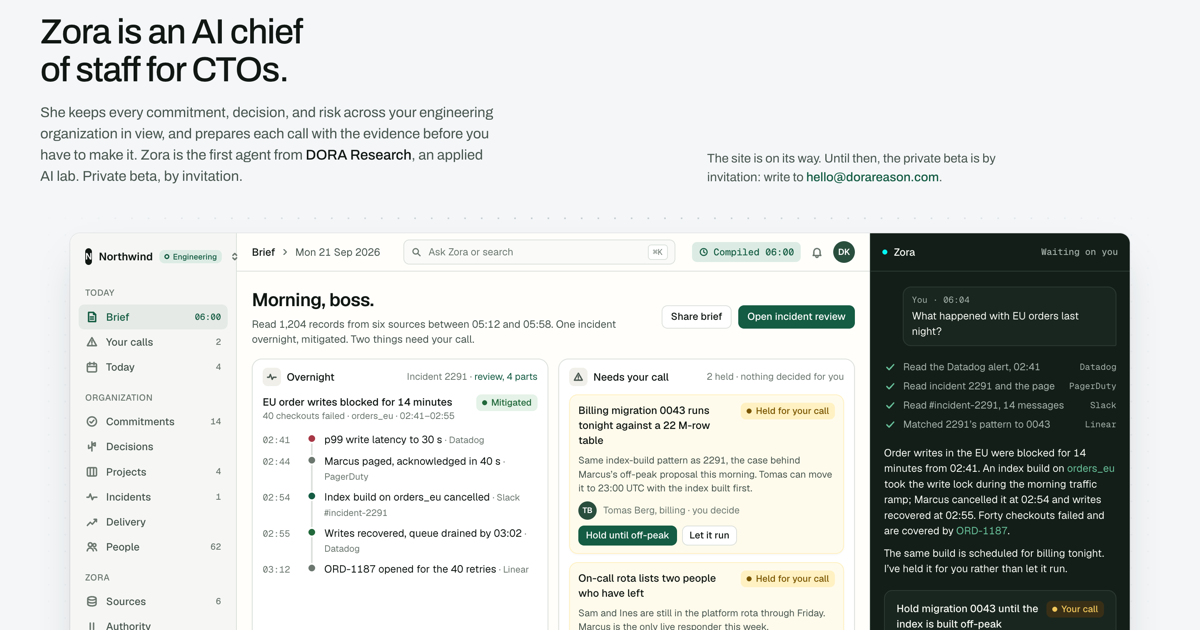
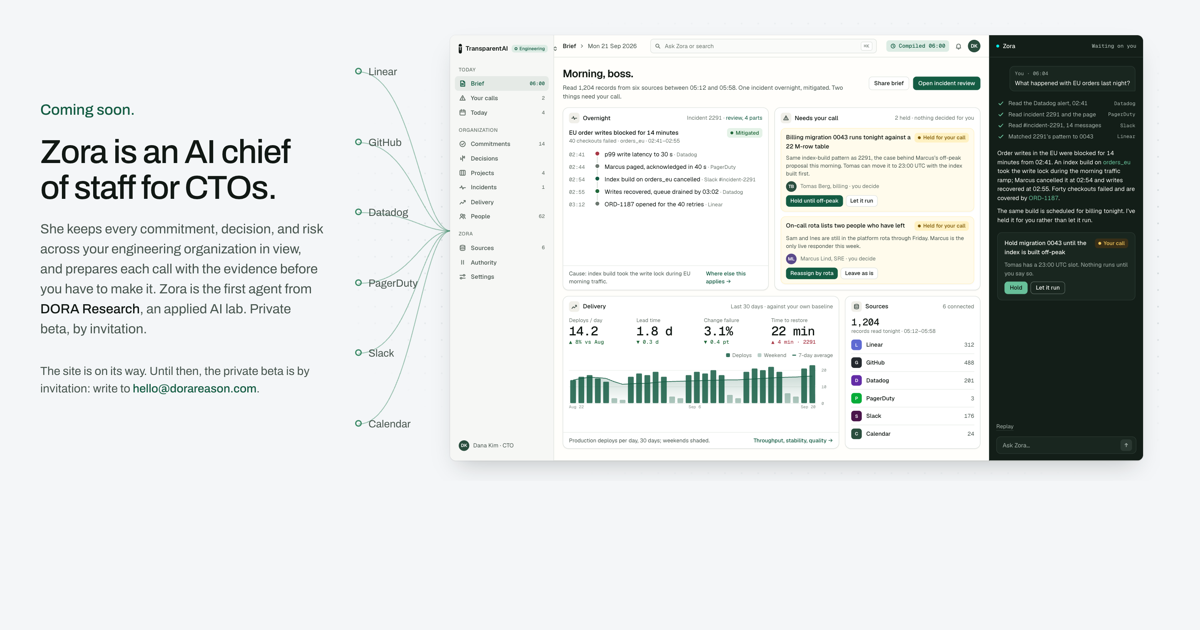
Set the window beside the copy, fed by its six sources (#13)
The product window now sits to the right of the copy at a smaller size,
redrawn at 1440 by 884 so it has the proportions of a laptop screenshot and
ends after the Delivery and Sources row. Six sources (Linear, GitHub,
Datadog, PagerDuty, Slack, Calendar) stand to its left with threads curving
into it, and a record pulses along one of them every 650 ms, in plain SVG
with SMIL, off under reduced motion. The customer workspace is TransparentAI.
The social image is cut from the new layout.

diff --git a/public/coming-soon.html b/public/coming-soon.html
@@ -49,20 +49,27 @@
   .top .mark g { transform-origin: 12px 12px; animation: swarm-spin 22s linear infinite; }
   @keyframes swarm-spin { to { transform: rotate(360deg); } }
 
-  .hero { padding: 40px 0 28px; display: grid; grid-template-columns: minmax(0, 7fr) minmax(0, 5fr); gap: 40px; align-items: end; }
+  .hero { padding: 28px 0 24px; display: grid; grid-template-columns: minmax(0, 340px) minmax(0, 1fr); gap: 32px; align-items: center; }
   .kicker { margin: 0 0 16px; font-size: 18px; font-weight: 500; color: var(--action); }
-  h1 { font-size: 42px; line-height: 1.08; font-weight: 500; letter-spacing: -.025em; margin: 0; max-width: 13em; text-wrap: balance; }
-  .sub { margin: 16px 0 0; max-width: 32em; color: var(--muted); font-size: 17px; }
+  h1 { font-size: 40px; line-height: 1.08; font-weight: 500; letter-spacing: -.025em; margin: 0; max-width: 13em; text-wrap: balance; }
+  .sub { margin: 16px 0 0; max-width: 32em; color: var(--muted); font-size: 16px; }
   .sub b { color: var(--ink); font-weight: 500; }
-  .contact { margin: 0; font-size: 15px; color: var(--muted); max-width: 26em; }
+  .contact { margin: 28px 0 0; font-size: 14px; color: var(--muted); max-width: 26em; }
   .contact b { color: var(--action); font-weight: 500; }
   .bottom { display: flex; justify-content: space-between; font-size: 14px; color: var(--muted); padding-top: 28px; }
 
-  /* the window sits on a dot-grid plate, like a screenshot that is still alive */
-  .plate { position: relative; min-width: 0; padding: 28px 36px 0; border-radius: 16px 16px 0 0; overflow: hidden; }
-  .plate::before { content: ''; position: absolute; inset: 0; background-image: radial-gradient(circle, #C7CFD3 1px, transparent 1.2px); background-size: 20px 20px; -webkit-mask-image: radial-gradient(ellipse at 50% 30%, #000 30%, transparent 78%); mask-image: radial-gradient(ellipse at 50% 30%, #000 30%, transparent 78%); }
-  .frame { width: 1272px; transform-origin: 0 0; }
-  .window { position: relative; height: 900px; display: grid; grid-template-columns: 200px minmax(0, 1fr) 312px; border-radius: 12px 12px 0 0; background: var(--raised); box-shadow: var(--window-shadow); overflow: hidden; font-family: var(--ui); font-size: 12.5px; line-height: 1.45; color: var(--ink); }
+  /* the stage: a dot-grid plate with the six sources feeding the scaled window */
+  .stage { position: relative; min-width: 0; display: grid; grid-template-columns: 120px minmax(0, 1fr); padding: 24px 20px 24px 0; border-radius: 16px; overflow: hidden; }
+  .stage::before { content: ''; position: absolute; inset: 0; background-image: radial-gradient(circle, #C7CFD3 1px, transparent 1.2px); background-size: 20px 20px; -webkit-mask-image: radial-gradient(ellipse at 60% 50%, #000 30%, transparent 78%); mask-image: radial-gradient(ellipse at 60% 50%, #000 30%, transparent 78%); }
+  .feed { position: relative; min-width: 0; }
+  .feed svg { position: absolute; inset: 0; width: 100%; height: 100%; overflow: visible; }
+  .feed svg path { fill: none; stroke: var(--living); stroke-width: 1; opacity: .5; }
+  .feed svg circle.pulse { fill: var(--cyan); }
+  .feed-src { position: absolute; left: 6px; transform: translateY(-50%); padding-left: 16px; font-size: 12.5px; color: var(--muted); white-space: nowrap; }
+  .feed-src::before { content: ''; position: absolute; left: 0; top: 50%; width: 8px; height: 8px; margin-top: -5px; border-radius: 50%; border: 1.5px solid var(--living); box-sizing: border-box; }
+  .slot { position: relative; min-width: 0; }
+  .frame { width: 1440px; transform-origin: 0 0; }
+  .window { position: relative; height: 884px; display: grid; grid-template-columns: 216px minmax(0, 1fr) 320px; border-radius: 12px; background: var(--raised); box-shadow: var(--window-shadow); overflow: hidden; font-family: var(--ui); font-size: 12.5px; line-height: 1.45; color: var(--ink); }
 
   /* sidebar */
   .side { background: #F6F7F5; border-right: 1px solid var(--rule); padding: 12px 10px; display: flex; flex-direction: column; gap: 2px; font-size: 12.5px; }
@@ -217,15 +224,19 @@
   .zp .replay { margin: 0 14px 12px; align-self: flex-start; font: inherit; font-size: 11.5px; color: var(--n-muted); background: none; border: 0; padding: 0; border-bottom: 1px solid var(--n-line); cursor: pointer; }
   .zp .replay:hover { color: var(--n-text); border-color: var(--n-text); }
 
-  @media (max-width: 960px) {
+  @media (min-width: 961px) { .grid > .w:nth-child(n+5) { display: none; } }
+  @media (max-width: 1200px) {
     .hero { grid-template-columns: 1fr; gap: 20px; }
+  }
+  @media (max-width: 960px) {
     .frame { width: auto !important; transform: none !important; }
-    .plate { height: auto !important; }
+    .slot { height: auto !important; }
+    .stage { grid-template-columns: 1fr; padding: 20px 12px; }
+    .feed { display: none; }
     .window { grid-template-columns: 1fr; height: auto; }
     .side { display: none; }
     .grid { grid-template-columns: repeat(2, minmax(0, 1fr)); }
     .w, .w.c3, .w.c4, .w.c6 { grid-column: span 2; }
-    .plate { padding: 20px 12px 0; }
   }
   @media (max-width: 640px) {
     .page { padding: 24px; }
@@ -234,7 +245,7 @@
     .w, .w.c3, .w.c4, .w.c6 { grid-column: span 1; }
     .content { padding: 14px; }
     .bar .search { display: none; }
-    .plate { margin: 0 -24px; padding: 20px 8px 0; border-radius: 0; }
+    .stage { margin: 0 -24px; padding: 20px 8px; border-radius: 0; }
   }
   @media (prefers-reduced-motion: reduce) {
     .top .mark g { animation: none; }
@@ -285,19 +296,20 @@
 
   <main>
     <section class="hero">
-      <div>
+      <div class="copy">
         <p class="kicker">Coming soon.</p>
         <h1>Zora is an AI chief of staff for CTOs.</h1>
         <p class="sub">She keeps every commitment, decision, and risk across your engineering organization in view, and prepares each call with the evidence before you have to make it. Zora is the first agent from <b>DORA Research</b>, an applied AI lab. Private beta, by invitation.</p>
+        <p class="contact">The site is on its way. Until then, the private beta is by invitation: write to <a href="mailto:hello@dorareason.com"><b>hello@dorareason.com</b></a>.</p>
       </div>
-      <p class="contact">The site is on its way. Until then, the private beta is by invitation: write to <a href="mailto:hello@dorareason.com"><b>hello@dorareason.com</b></a>.</p>
-    </section>
 
-    <div class="plate">
+      <div class="stage" id="stage">
+        <div class="feed" id="feed" aria-hidden="true"><svg id="threads"></svg><div id="sources"></div></div>
+        <div class="slot" id="slot">
       <div class="frame" id="frame">
       <div class="window" id="window" role="figure" aria-label="Zora’s morning brief for a CTO, demonstration data">
         <aside class="side" aria-hidden="true">
-          <div class="ws"><span class="z">N</span>Northwind <span class="chip prep" style="height:16px;font-size:9.5px;padding:0 6px;gap:4px">Engineering</span><svg class="i chev"><use href="#i-updown"/></svg></div>
+          <div class="ws"><span class="z">T</span>TransparentAI <span class="chip prep" style="height:16px;font-size:9.5px;padding:0 6px;gap:4px">Engineering</span><svg class="i chev"><use href="#i-updown"/></svg></div>
           <div class="nav-h">Today</div>
           <nav class="nav">
             <a class="on"><svg class="i"><use href="#i-brief"/></svg>Brief<span class="n">06:00</span></a>
@@ -505,7 +517,9 @@
         </aside>
       </div>
       </div>
-    </div>
+        </div>
+      </div>
+    </section>
   </main>
 
   <footer class="bottom">
@@ -549,16 +563,47 @@
     setTimeout(() => { el.textContent = fmt(target); }, dur + 60);
   }
 
-  // Fit the 1272 px window to the plate: scale it down on tablets and small laptops, fill on wide screens.
-  const plate = $('.plate'), frame = $('#frame');
+  // Fit the 1440 px window to its slot: scaled down beside the copy, larger on its own row, stacked under 960 px.
+  const slot = $('#slot'), frame = $('#frame'), feed = $('#feed'), threadsSvg = $('#threads'), sourcesEl = $('#sources');
+  const SOURCES = ['Linear', 'GitHub', 'Datadog', 'PagerDuty', 'Slack', 'Calendar'];
+  const srcEls = SOURCES.map((n) => { const d = document.createElement('div'); d.className = 'feed-src'; d.textContent = n; sourcesEl.appendChild(d); return d; });
+  let threadPaths = [];
   function fit() {
-    if (matchMedia('(max-width: 960px)').matches) { frame.style.width = ''; frame.style.transform = ''; plate.style.height = ''; return; }
-    const avail = plate.clientWidth - 72, w = Math.max(1272, avail), s = avail / w;
+    if (matchMedia('(max-width: 960px)').matches) { frame.style.width = ''; frame.style.transform = ''; slot.style.height = ''; return; }
+    const avail = slot.clientWidth, w = Math.max(1440, avail), s = avail / w;
     frame.style.width = w + 'px'; frame.style.transform = 'scale(' + s.toFixed(4) + ')';
-    plate.style.height = Math.round(900 * s + 28) + 'px';
+    slot.style.height = Math.round(884 * s) + 'px';
+    drawFeed();
+  }
+  // Six threads from the sources into the window's left edge; the data flows in, the brief comes out.
+  function drawFeed() {
+    const W = feed.clientWidth, H = feed.clientHeight; if (!W || !H) return;
+    const top = 44, ex = W + 1, ey = Math.round(H * 0.46);
+    let html = '';
+    threadPaths = SOURCES.map((_, i) => {
+      const y = Math.round(top + (H - 2 * top) * (i / (SOURCES.length - 1)));
+      srcEls[i].style.top = y + 'px';
+      const sx = 10;
+      html += `<path id="thread-${i}" d="M${sx} ${y} C${sx + W * 0.55} ${y}, ${W * 0.7} ${ey}, ${ex} ${ey}"/>`;
+      return null;
+    });
+    threadsSvg.innerHTML = html;
+    threadPaths = $$('path', threadsSvg);
   }
   fit(); addEventListener('resize', fit); addEventListener('orientationchange', fit); addEventListener('pageshow', fit); document.addEventListener('visibilitychange', fit);
-  if ('ResizeObserver' in window) new ResizeObserver(fit).observe(plate);
+  if ('ResizeObserver' in window) new ResizeObserver(fit).observe(slot);
+  // pulses: one record at a time, on a thread chosen at random, from the source into the window
+  let pulseTimer = 0;
+  function pulse() {
+    if (reduced || document.hidden || !threadPaths.length || getComputedStyle(feed).display === 'none') return;
+    const i = Math.floor(Math.random() * threadPaths.length);
+    const g = document.createElementNS('http://www.w3.org/2000/svg', 'g');
+    g.innerHTML = `<circle class="pulse" r="2.5"><animateMotion dur="1.1s" begin="0s" fill="freeze" calcMode="spline" keyTimes="0;1" keySplines="0.45 0 0.55 1"><mpath href="#thread-${i}"/></animateMotion><animate attributeName="opacity" values="1;1;0" keyTimes="0;0.85;1" dur="1.1s" fill="freeze"/></circle>`;
+    threadsSvg.appendChild(g);
+    setTimeout(() => g.remove(), 1250);
+  }
+  function schedulePulses() { clearInterval(pulseTimer); if (!reduced) pulseTimer = setInterval(pulse, 650); }
+  schedulePulses();
 
   const widgets = $$('.w'), msgs = { you: $('#m-you'), steps: $('#m-steps'), answer: $('#m-answer'), card: $('#m-card'), after: $('#m-after') };
   const steps = $$('.step'), zst = $('#zst'), afterText = $('#after-text');
